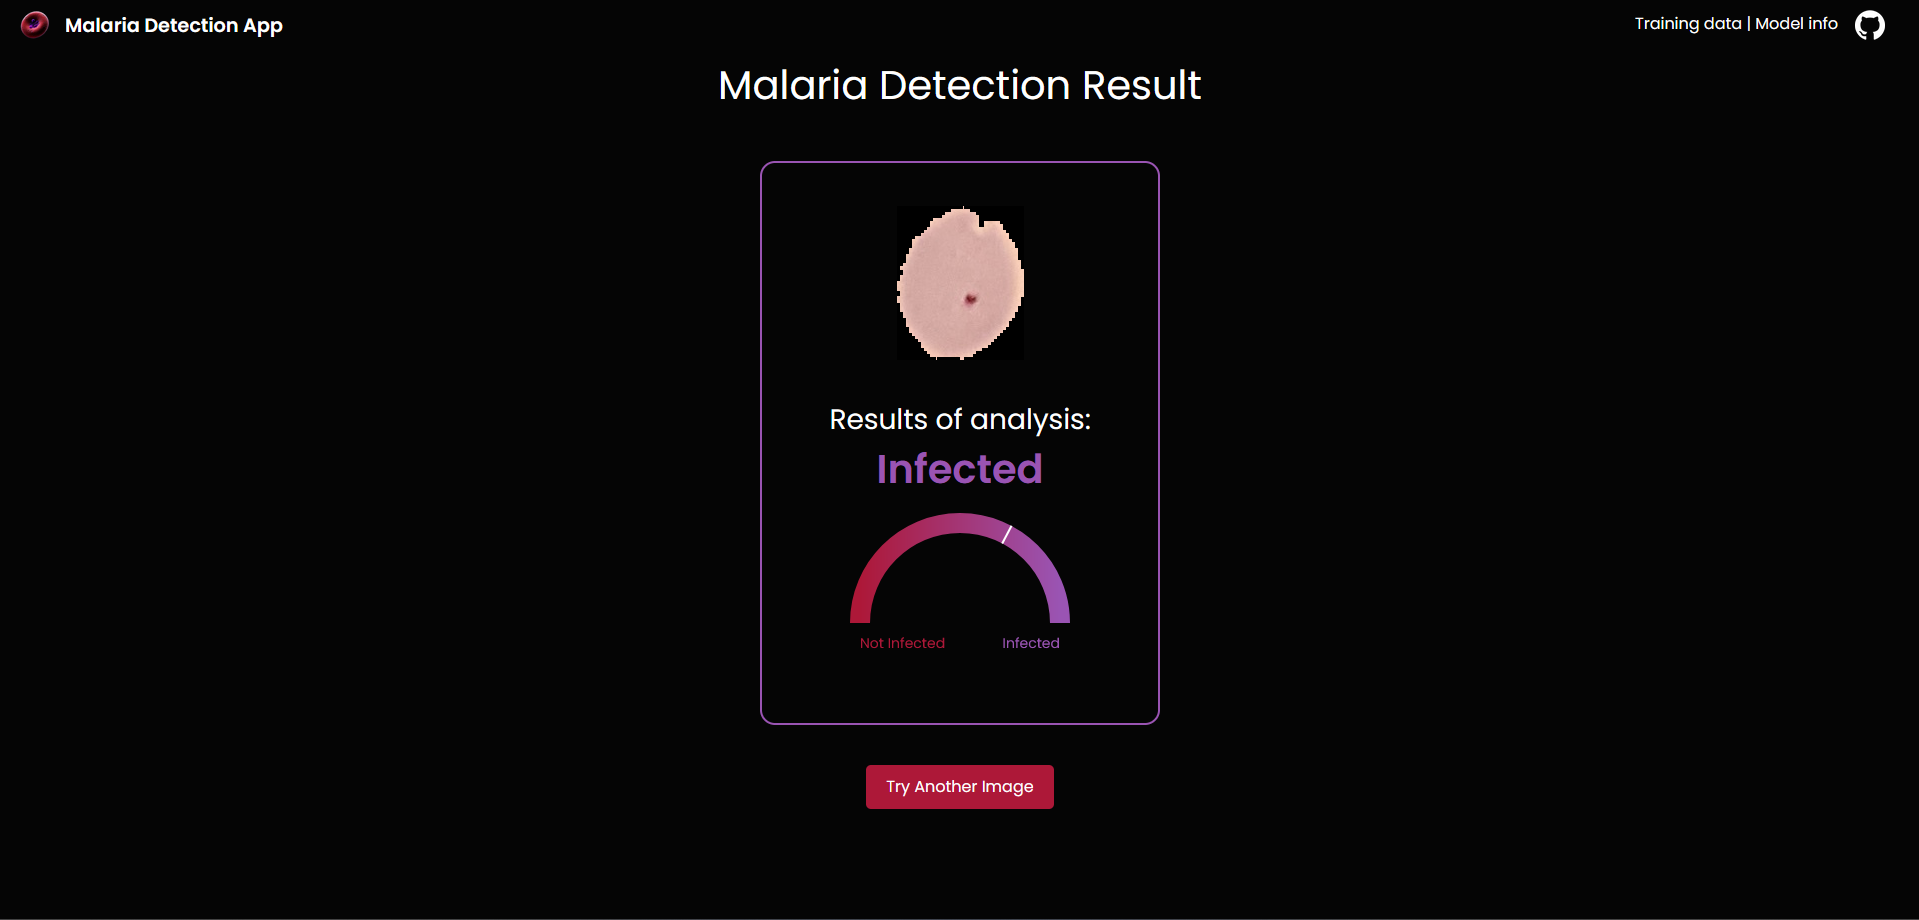
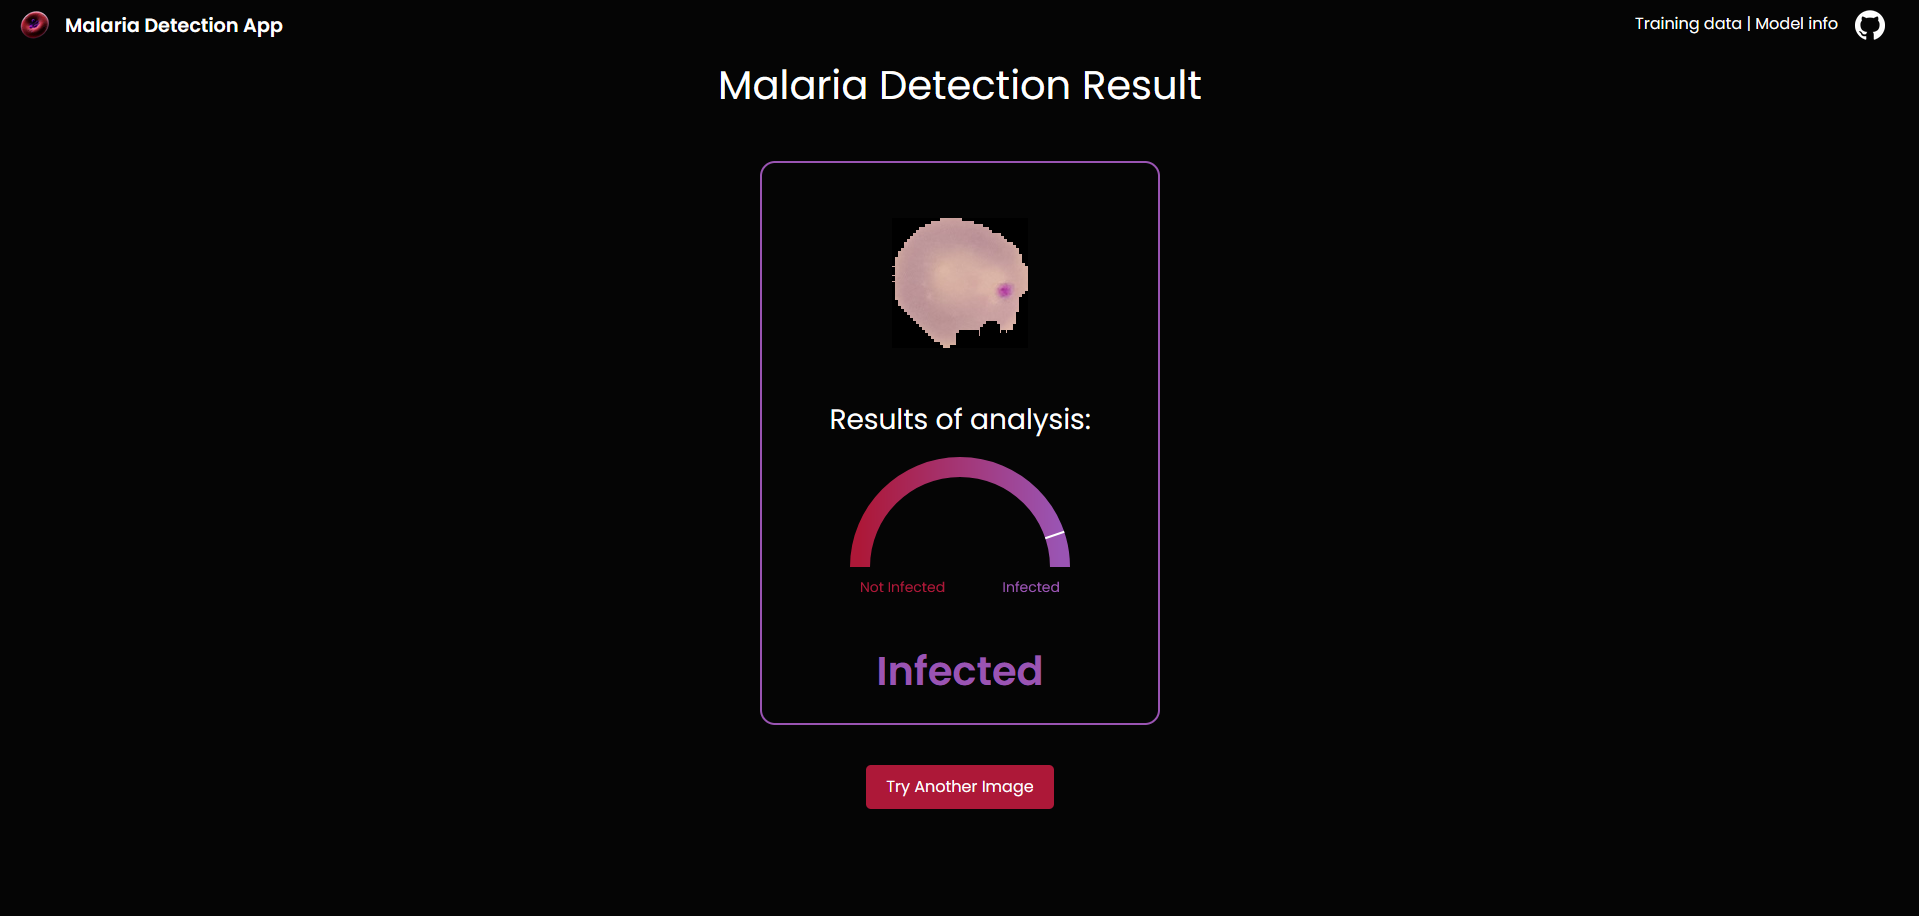
Moved the labeling of results to the bottom + updated screenshots

diff --git a/src/templates/analysis.html b/src/templates/analysis.html
@@ -35,7 +35,7 @@
 
                     <!-- Results Section -->
                     <h3 style="margin-top: 20px;">Results of analysis:</h3>
-                    <h4 style="font-size: 40px; color: {{ Config.INF_COLOR if result == 'Infected' else Config.NOT_INF_COLOR }}"><b>{{ result }}</b></h4>
+                    <!-- <h4 style="font-size: 40px; color: {{ Config.INF_COLOR if result == 'Infected' else Config.NOT_INF_COLOR }}"><b>{{ result }}</b></h4> -->
 
                     <!-- Gauge Graph Section -->
                     <div style="
@@ -71,6 +71,7 @@
                             <text x="250" y="145" font-size="14" fill="{{ Config.INF_COLOR }}" text-anchor="end">Infected</text>
                         </svg>
                     </div>
+                    <h4 style="font-size: 40px; color: {{ Config.INF_COLOR if result == 'Infected' else Config.NOT_INF_COLOR }}"><b>{{ result }}</b></h4>
                 </div>
 
                 <!-- Navigation Link -->
